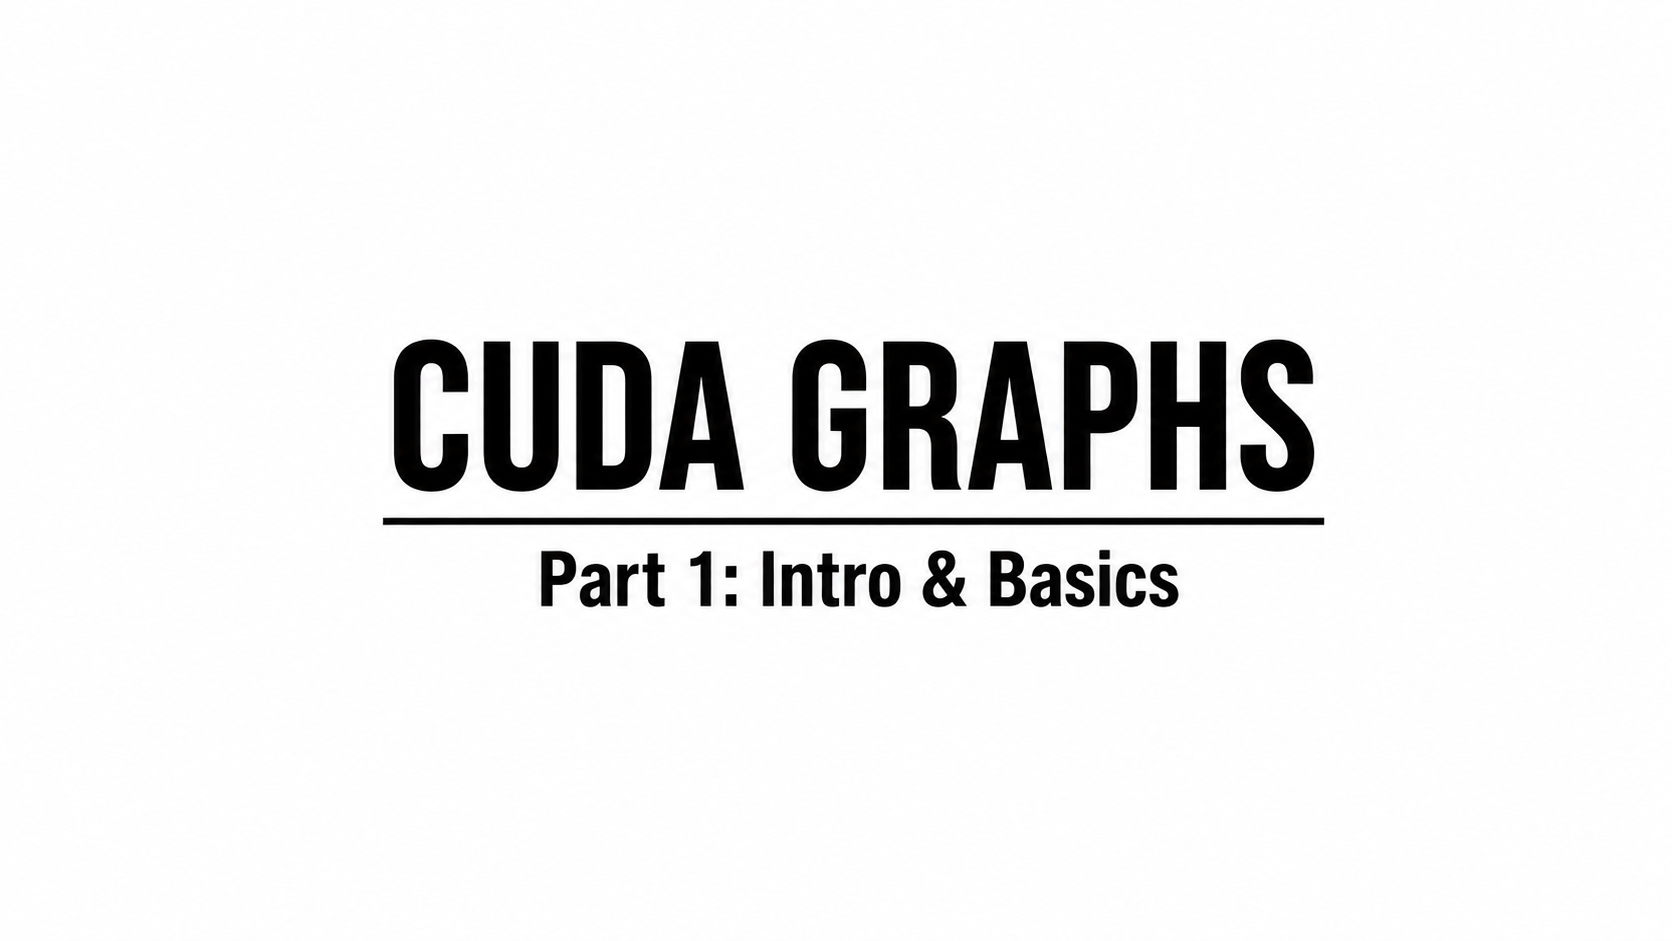
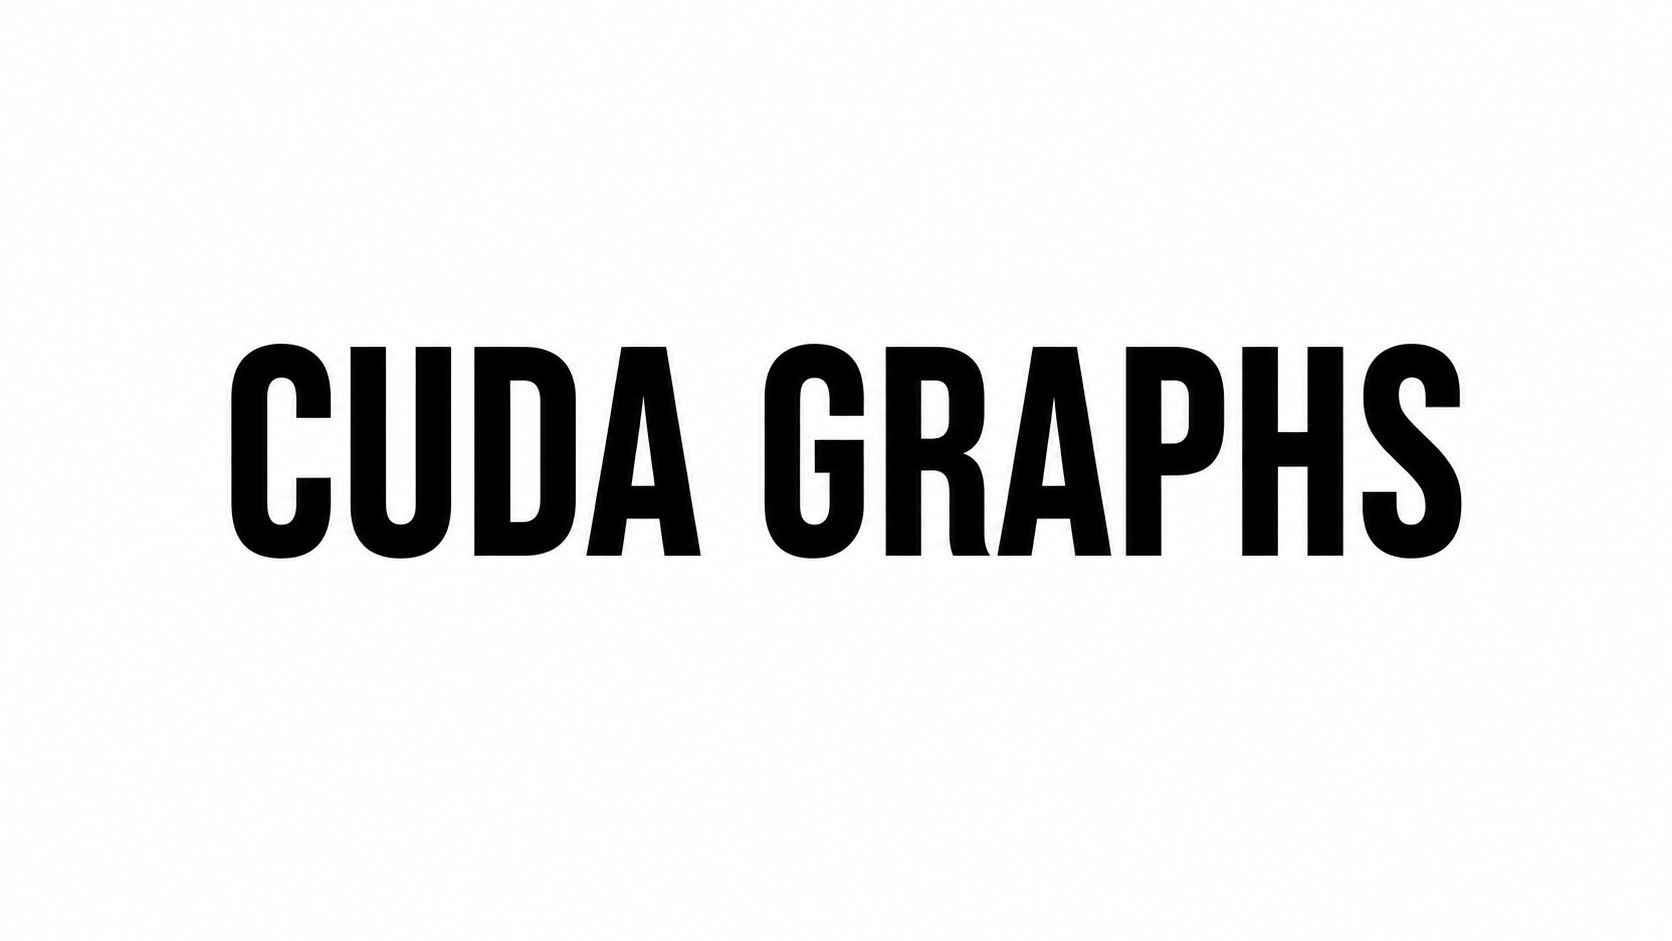
update thumbnails

Changed region(s): [[0.1244, 0.339, 0.9019, 0.6472]]

diff --git a/videos/cuda-graphs/cudagraphs.html b/videos/cuda-graphs/cudagraphs.html
@@ -209,7 +209,7 @@
 
       <a href="cudagraphs-part1.html" class="part-card reveal" style="animation-delay: 0.6s;">
         <div class="part-thumb">
-          <img src="cudagraph.png" alt="Part 1">
+          <img src="cudagraph1.png" alt="Part 1">
         </div>
         <div class="part-info">
           <div class="part-title">Part 1: CUDA Graphs - Intro & Basics</div>

diff --git a/videos/cuda-graphs/cudagraphs-part1.html b/videos/cuda-graphs/cudagraphs-part1.html
@@ -244,7 +244,7 @@
     </div>
 
     <div class="video-player reveal" style="animation-delay: 0.6s;">
-      <video controls poster="cudagraph.png">
+      <video controls poster="cudagraph1.png">
         <source src="cudagraphs.mp4" type="video/mp4">
       </video>
     </div>
